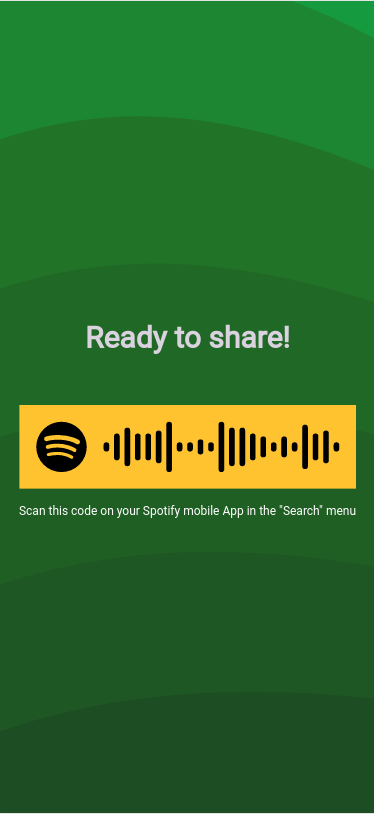
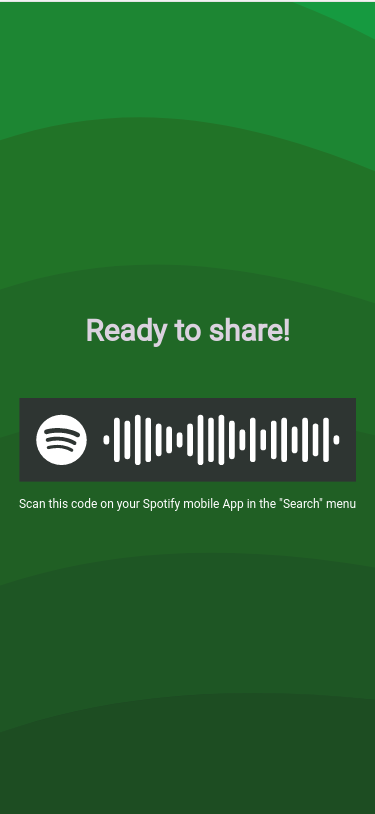
Change color of spotify code

Changed region(s): [[0.0294, 0.4914, 0.9706, 0.645], [0.2353, 0.3686, 0.7941, 0.43]]

diff --git a/spotifyMix/templates/share.html b/spotifyMix/templates/share.html
@@ -26,7 +26,7 @@
 
 
       <div class="spotify-code-wrapper">
-        <img class="spotify-code" src="https://scannables.scdn.co/uri/plain/svg/fcc203/black/850/{{playlistURI}}" alt="">
+        <img class="spotify-code" src="https://scannables.scdn.co/uri/plain/svg/2E3532/white/850/{{playlistURI}}" alt="">
         <p class="spotify-code-text">Scan this code on your Spotify mobile App in the "Search" menu</p>
       </div>
 
